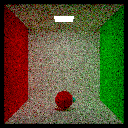
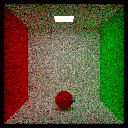
camera remove unused vars

diff --git a/src/scene/camera.h b/src/scene/camera.h
@@ -12,8 +12,6 @@ class Camera {
           target(target),
           world_up(world_up),
           fov(fov),
-          width(width),
-          height(height),
           aspect_ratio(float(width) / float(height)),
           camera_up(0.0f),
           forward(0.0f),
@@ -45,12 +43,10 @@ class Camera {
     Vec3 target;
     Vec3 world_up;
 
+    float fov;
+    float aspect_ratio;
+
     Vec3 camera_up;
     Vec3 forward;
     Vec3 right;
-
-    float fov;
-    int width;
-    int height;
-    float aspect_ratio;
 };
